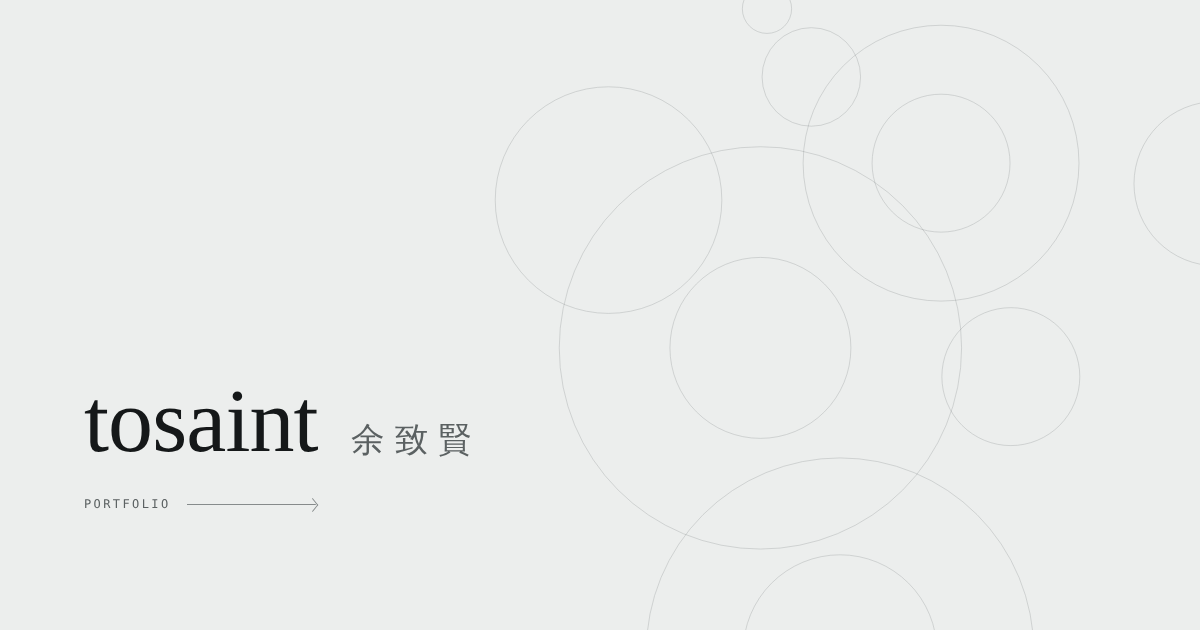
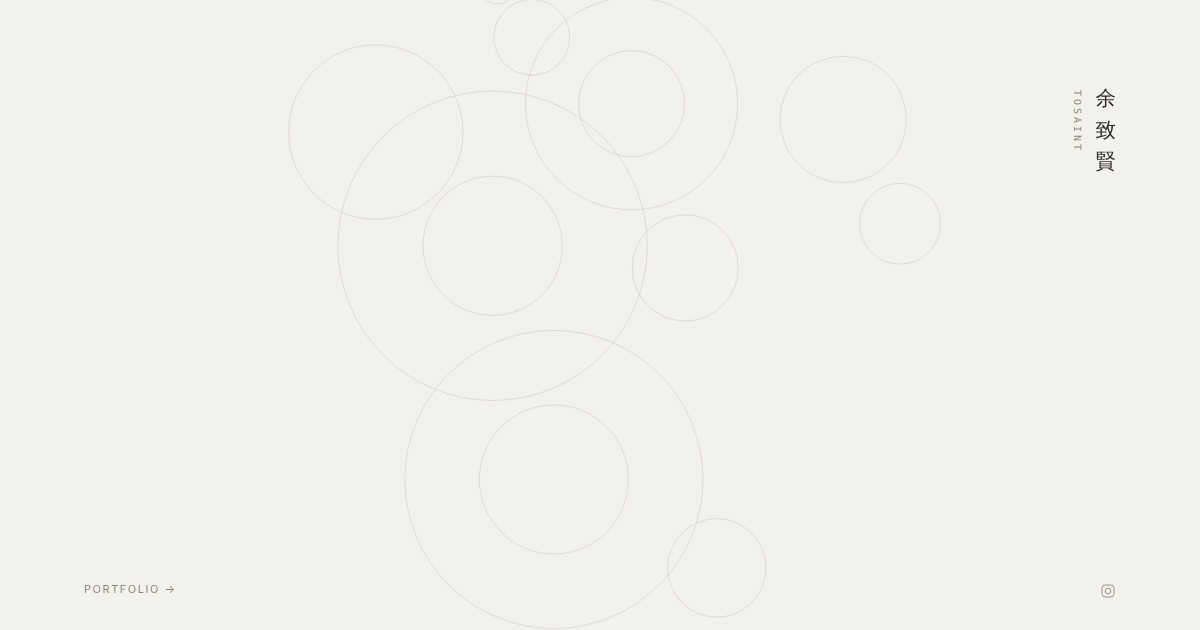
Direction A (ma): warm paper, vertical name seal, small edge words, ripple on touch
Claude-Session: https://claude.ai/code/session_01APYZqy7Q2kTr5qsNGYdeGs

Changed region(s): [[0.0617, 0.6333, 0.4008, 0.7238], [0.8942, 0.1508, 0.925, 0.2714], [0.0617, 0.7841, 0.1233, 0.8143]]

diff --git a/index.html b/index.html
@@ -16,70 +16,60 @@
 <link rel="stylesheet" href="https://fonts.googleapis.com/css2?family=Bodoni+Moda:opsz,wght@6..96,400&family=IBM+Plex+Mono:wght@400&family=IBM+Plex+Sans:wght@400;500&family=Noto+Serif+TC:wght@300;400&display=swap">
 <style>
 :root {
-  --ground: #101213; --ink: #e6e4de; --ink-2: #9a9d9b; --hair: #2b2f30; --brass: #c4a96a; --light: #e6e4de1f;
-  --serif: "Bodoni Moda", "Didot", "Noto Serif TC", Georgia, serif;
+  --ground: #141412; --ink: #e8e5de; --ink-2: #8e8a82;
+  --serif: "Noto Serif TC", "Songti TC", serif;
   --sans: "IBM Plex Sans", "Noto Sans TC", system-ui, sans-serif;
   --mono: "IBM Plex Mono", ui-monospace, "SFMono-Regular", Menlo, monospace;
-  --zh: "Noto Serif TC", "Songti TC", serif;
+  --edge: clamp(28px, 7vw, 96px); --foot: clamp(24px, 5vh, 48px);
   color-scheme: dark;
 }
 @media (prefers-color-scheme: light) {
-  :root:not([data-theme="dark"]) { --ground: #eceeed; --ink: #151819; --ink-2: #5b6162; --hair: #c8cdcc; --brass: #86692b; --light: #ffffffcc; color-scheme: light; }
+  :root:not([data-theme="dark"]) { --ground: #f3f1ec; --ink: #2b2a27; --ink-2: #8b877e; color-scheme: light; }
 }
-:root[data-theme="light"] { --ground: #eceeed; --ink: #151819; --ink-2: #5b6162; --hair: #c8cdcc; --brass: #86692b; --light: #ffffffcc; color-scheme: light; }
+:root[data-theme="light"] { --ground: #f3f1ec; --ink: #2b2a27; --ink-2: #8b877e; color-scheme: light; }
 
 * { box-sizing: border-box; }
-html, body { min-height: 100%; overflow-x: clip; }
-body { margin: 0; background: var(--ground); color: var(--ink); font: 400 16px/1.65 var(--sans); }
-a { color: inherit; }
-a:focus-visible, button:focus-visible { outline: 1px solid var(--ink-2); outline-offset: 4px; }
+html, body { margin: 0; min-height: 100%; overflow: hidden; }
+body { background: var(--ground); color: var(--ink); font: 400 11px/1.6 var(--sans); letter-spacing: .14em;
+  min-height: 100vh; min-height: 100svh; -webkit-tap-highlight-color: transparent; }
+a { color: inherit; text-decoration: none; }
+a:focus-visible, button:focus-visible { outline: 1px solid var(--ink-2); outline-offset: 5px; }
 
-/* nothing but white space, a name, and the water */
-.page { position: relative; min-height: 100vh; min-height: 100svh; display: grid; grid-template-rows: auto 1fr auto;
-  padding: max(28px, env(safe-area-inset-top)) max(clamp(28px, 7vw, 96px), env(safe-area-inset-right)) max(32px, env(safe-area-inset-bottom)) max(clamp(28px, 7vw, 96px), env(safe-area-inset-left)); }
-
-.theme { justify-self: end; position: relative; z-index: 2; font: 400 11px var(--mono); letter-spacing: .18em; text-transform: uppercase; background: none; border: 0; padding: 4px 0; color: var(--ink-2); cursor: pointer; opacity: .7; }
-.theme:hover { opacity: 1; }
-
-main { position: relative; z-index: 1; align-self: end; display: grid; gap: 28px; padding-bottom: clamp(48px, 10vh, 120px); }
-h1 { margin: 0; font: 400 clamp(46px, 7.5vw, 104px)/.95 var(--serif); letter-spacing: -.01em; }
-h1 .zh { display: inline-block; font: 300 clamp(20px, 2.8vw, 36px)/1 var(--zh); letter-spacing: .3em; color: var(--ink-2); margin-left: .35em; }
-
-.enter { display: flex; align-items: center; gap: 16px; width: min(22em, 100%); padding-block: 6px; text-decoration: none; font: 400 12px var(--mono); letter-spacing: .2em; text-transform: uppercase; color: var(--ink-2); }
-.enter .line { flex: 1; height: 1px; background: currentColor; position: relative; transform-origin: left; transition: transform .6s ease; transform: scaleX(.8); opacity: .7; }
-.enter .line::after { content: ""; position: absolute; right: -1px; top: -4px; width: 9px; height: 9px; border-top: 1px solid currentColor; border-right: 1px solid currentColor; transform: rotate(45deg); }
-.enter:hover { color: var(--ink); }
-.enter:hover .line, .enter:focus-visible .line { transform: scaleX(1); }
-@media (prefers-reduced-motion: reduce) { .enter .line { transition: none; } }
-
-.quiet { position: relative; z-index: 1; display: flex; align-items: center; gap: 28px; font: 400 11px var(--mono); letter-spacing: .18em; text-transform: uppercase; color: var(--ink-2); }
-.quiet a { text-decoration: none; opacity: .75; }
-.quiet a:hover { opacity: 1; color: var(--ink); }
-.ig { display: inline-flex; }
-.ig svg { width: 18px; height: 18px; }
-
-/* the ripples float free in the upper right, and are allowed to leave the screen */
-.water { position: absolute; top: -6vh; right: -14vw; width: min(78vw, 1000px); height: auto; color: var(--ink-2); overflow: visible; pointer-events: none; z-index: 0; }
-.water circle { vector-effect: non-scaling-stroke; transform-box: fill-box; transform-origin: center; opacity: 0;
-  animation: drop var(--t) cubic-bezier(.45,0,.55,1) calc(var(--d) + var(--k) * 1.6s) infinite; }
+/* 間: the water in the middle, a seal of a name at the right, small words at the edges */
+.water { position: fixed; left: 50%; top: 46%; width: min(62vw, 720px); height: auto; transform: translate(-50%, -50%);
+  color: var(--ink-2); overflow: visible; pointer-events: none; }
+.water circle, .tap circle { vector-effect: non-scaling-stroke; transform-box: fill-box; transform-origin: center; }
+.water circle { opacity: 0; animation: drop var(--t) cubic-bezier(.45,0,.55,1) calc(var(--d) + var(--k) * 1.6s) infinite; }
 @keyframes drop {
   0%   { opacity: 0; transform: scale(.9); }
   40%  { opacity: var(--o); transform: scale(1); }
   70%  { opacity: calc(var(--o) * .8); transform: scale(1.04); }
   100% { opacity: 0; transform: scale(1.1); }
 }
-}
-@media (prefers-reduced-motion: reduce) { .water circle { animation: none; opacity: .22; } }
 
-@media (max-width: 720px) {
-  .water { top: -4vh; right: -48vw; width: 135vw; }
-}
+.seal { position: fixed; right: var(--edge); top: clamp(64px, 14vh, 140px); margin: 0; display: flex; gap: 14px; align-items: flex-start; font-weight: 400; }
+.seal .zh { display: flex; flex-direction: column; gap: .55em; font: 300 clamp(19px, 1.7vw, 24px)/1 var(--serif); letter-spacing: 0; color: var(--ink); }
+.seal .en { writing-mode: vertical-rl; font: 400 10px/1 var(--mono); letter-spacing: .3em; color: var(--ink-2); margin-top: 2px; }
+
+.edge { position: fixed; text-transform: uppercase; color: var(--ink-2); }
+.edge:hover { color: var(--ink); }
+.theme { top: var(--foot); left: var(--edge); background: none; border: 0; padding: 0; font: inherit; letter-spacing: inherit; cursor: pointer; }
+.enter { bottom: var(--foot); left: var(--edge); }
+.ig { bottom: var(--foot); right: var(--edge); display: inline-flex; }
+.ig svg { width: 16px; height: 16px; }
+
+/* touching the page drops a stone: a few rings open where the finger lands */
+.tap { position: fixed; width: 240px; height: 240px; margin: -120px 0 0 -120px; overflow: visible; pointer-events: none; color: var(--ink-2); }
+.tap circle { opacity: 0; animation: ring 3.6s cubic-bezier(.2,.6,.3,1) forwards; }
+.tap circle:nth-child(2) { animation-delay: .45s; }
+.tap circle:nth-child(3) { animation-delay: .9s; }
+@keyframes ring { 0% { opacity: .55; transform: scale(.08); } 100% { opacity: 0; transform: scale(1); } }
+
+@media (max-width: 720px) { .water { width: 118vw; top: 44%; } }
+@media (prefers-reduced-motion: reduce) { .water circle { animation: none; opacity: .22; } }
 </style>
 </head>
 <body>
-<div class="page">
-  <button class="theme" id="theme" type="button" aria-label="Switch colour theme">Light</button>
-
   <!-- 水聲木 (own work): each turned piece, in plan, drawn only as rings that rise and fade like ripples -->
   <svg class="water" viewBox="120 150 1140 1080" fill="none" stroke="currentColor" stroke-width=".5" role="img" aria-label="水聲木 in plan: rings that rise and fade where each turned wooden piece lies, like ripples on water">
       <g class="drop" style="--t:15.9s;--d:-8.7s;--o:0.3"><circle style="--k:0" cx="520" cy="620" r="110.2"/><circle style="--k:1" cx="520" cy="620" r="245"/></g>
@@ -94,17 +84,14 @@ h1 .zh { display: inline-block; font: 300 clamp(20px, 2.8vw, 36px)/1 var(--zh); 
       <g class="drop" style="--t:18.2s;--d:-13.5s;--o:0.23"><circle style="--k:0" cx="528" cy="207" r="30"/></g>
     </svg>
 
-  <main>
-    <h1>tosaint <span class="zh" lang="zh-Hant">余致賢</span></h1>
-    <a class="enter" href="/portfolio/">Portfolio <span class="line" aria-hidden="true"></span></a>
-  </main>
+<h1 class="seal" aria-label="tosaint 余致賢"><span class="en" aria-hidden="true">TOSAINT</span><span class="zh" lang="zh-Hant" aria-hidden="true"><span>余</span><span>致</span><span>賢</span></span></h1>
 
-  <footer class="quiet">
-    <a class="ig" href="https://www.instagram.com/tosaint" target="_blank" rel="noopener" aria-label="Instagram: @tosaint">
+<button class="edge theme" id="theme" type="button" aria-label="Switch colour theme">Light</button>
+<a class="edge enter" href="/portfolio/">Portfolio →</a>
+<a class="edge ig" href="https://www.instagram.com/tosaint" target="_blank" rel="noopener" aria-label="Instagram: @tosaint">
         <svg viewBox="0 0 24 24" fill="none" stroke="currentColor" stroke-width="1.3" aria-hidden="true"><rect x="3" y="3" width="18" height="18" rx="5"/><circle cx="12" cy="12" r="4.2"/><circle cx="17.3" cy="6.7" r=".6" fill="currentColor" stroke="none"/></svg>
       </a>
-  </footer>
-</div>
+
 <script>
 (function () {
   var btn = document.getElementById("theme"), root = document.documentElement, saved = null;
@@ -117,6 +104,25 @@ h1 .zh { display: inline-block; font: 300 clamp(20px, 2.8vw, 36px)/1 var(--zh); 
     root.dataset.theme = current() === "dark" ? "light" : "dark";
     try { localStorage.setItem("theme", root.dataset.theme); } catch (e) {}
     label();
+  });
+
+  // a ripple where the page is touched; links and the button keep their own job
+  if (matchMedia("(prefers-reduced-motion: reduce)").matches) return;
+  var NS = "http://www.w3.org/2000/svg";
+  document.addEventListener("pointerdown", function (e) {
+    if (e.target.closest("a, button")) return;
+    var svg = document.createElementNS(NS, "svg");
+    svg.setAttribute("class", "tap"); svg.setAttribute("viewBox", "0 0 240 240");
+    svg.setAttribute("fill", "none"); svg.setAttribute("stroke", "currentColor"); svg.setAttribute("stroke-width", ".6");
+    svg.setAttribute("aria-hidden", "true");
+    svg.style.left = e.clientX + "px"; svg.style.top = e.clientY + "px";
+    for (var i = 0; i < 3; i++) {
+      var c = document.createElementNS(NS, "circle");
+      c.setAttribute("cx", 120); c.setAttribute("cy", 120); c.setAttribute("r", 118 - i * 26);
+      svg.appendChild(c);
+    }
+    document.body.appendChild(svg);
+    setTimeout(function () { svg.remove(); }, 5000);
   });
 })();
 </script>
